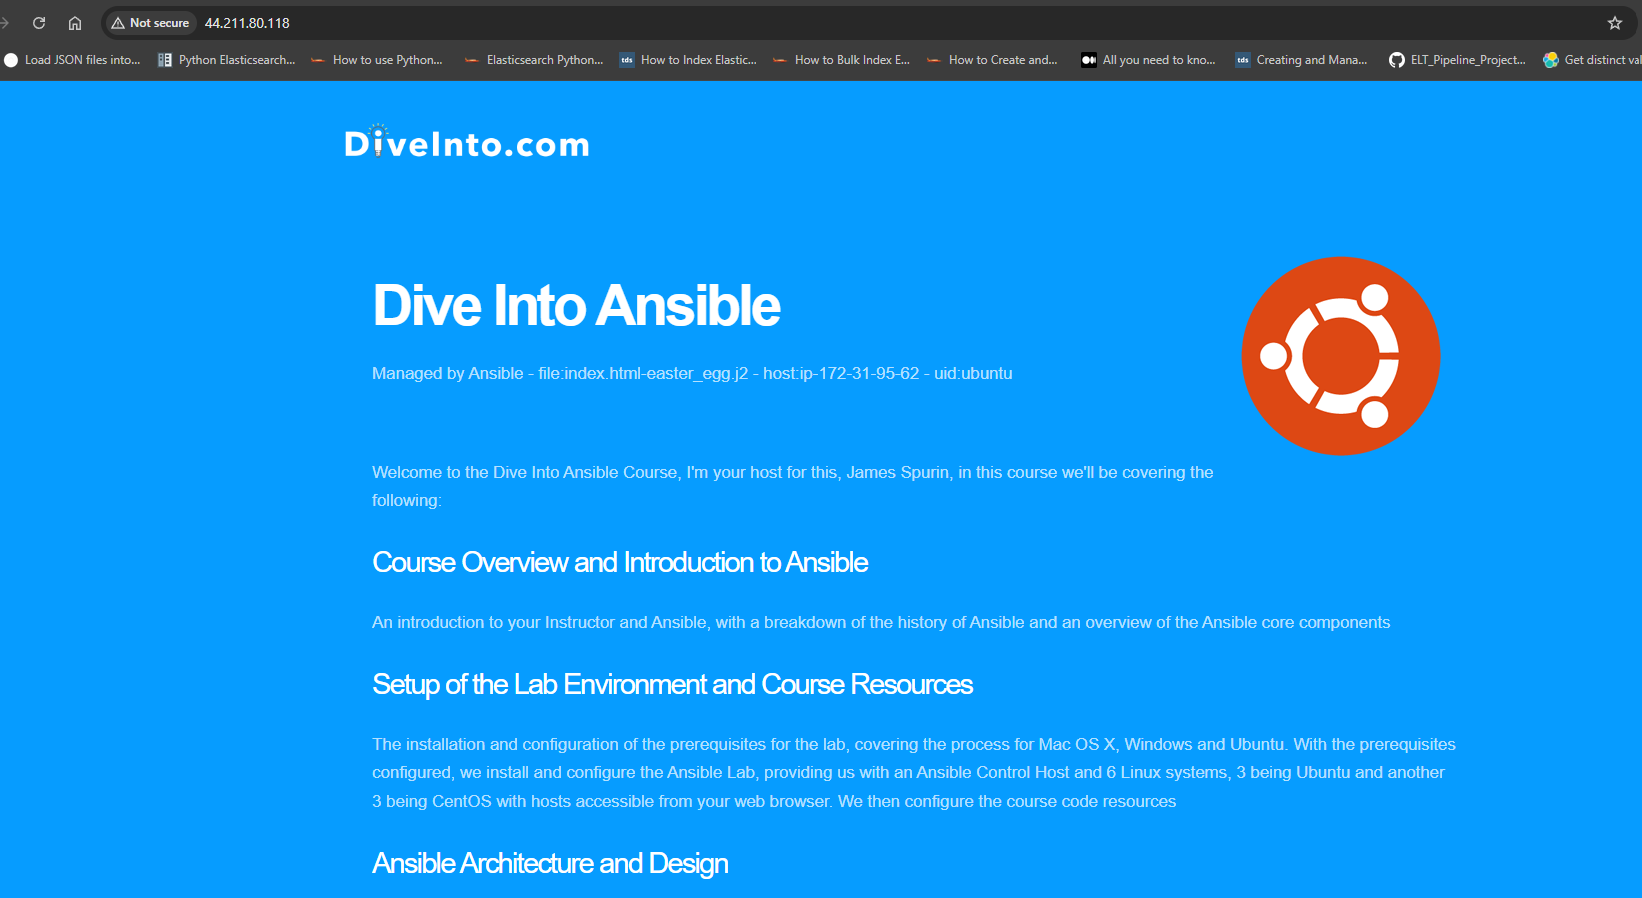
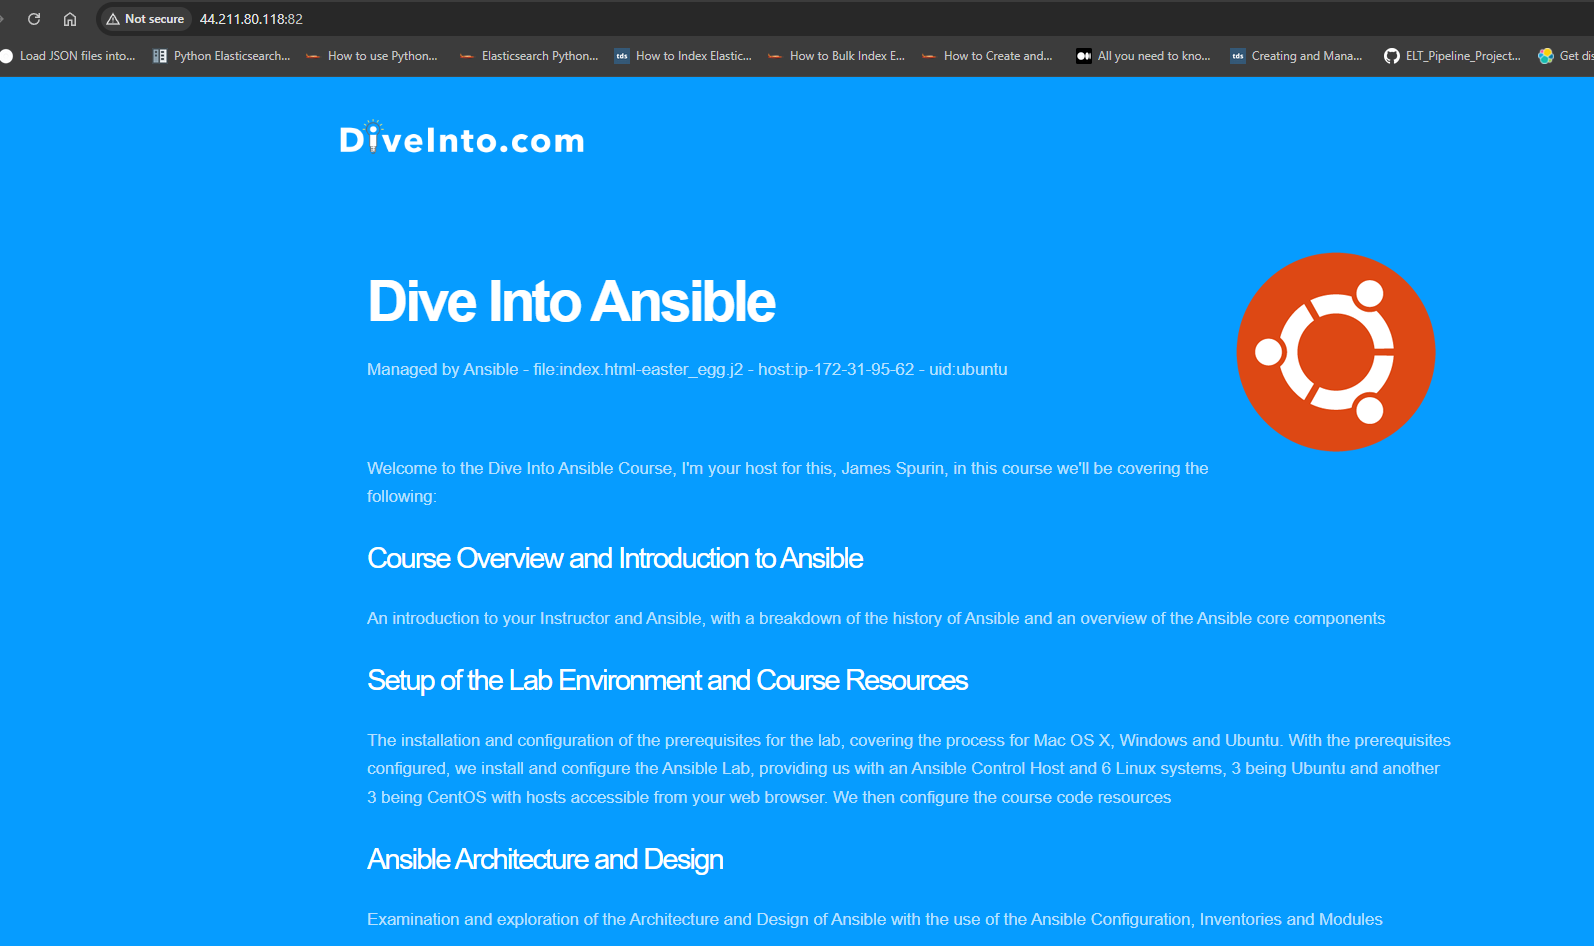
modifying readme file

diff --git a/README.md b/README.md
@@ -60,6 +60,7 @@ Then, type **<PUBLIC_IP_ADRESS>:80** in your browser.
 
 In this section, we are using the **app-template** folder.
 
+1) Launch the playbook
 
 ```bash
 cd app-template
@@ -67,5 +68,11 @@ cd app-template
 ansible-playbook nginx_webapp_playbook.yml --limit staging
 ansible-playbook nginx_webapp_playbook.yml --limit prod
 ```
+
+2) Go to staging server and type: **sudo docker ps**
+
+**![Containers creation in staging](./imgs/containers.png)**
+
+3) Go the browser and type **http://<PUBLIC_IP>:82**.
 
 **![testing containerized app in staging](./imgs/container-app.png)**
